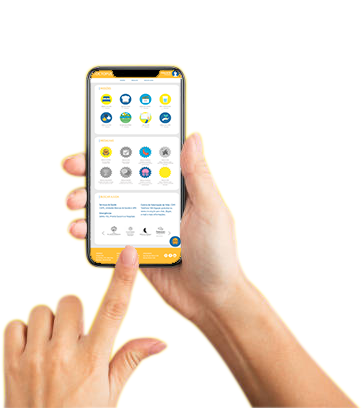
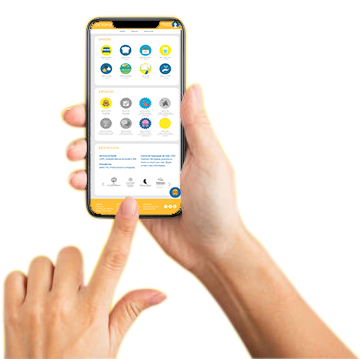
Criar pagina octopus/ e fazer pequenas alteracoes no index

diff --git a/app/templates/index.html b/app/templates/index.html
@@ -1,17 +1,6 @@
+{% extends 'layout.html' %}
 {% load staticfiles %}
-<!DOCTYPE html>
-<html lang="pt-br">
-<head>
-    <meta charset="UTF-8">
-    <meta name="viewport" content="width=device-width, initial-scale=1.0">
-    <meta http-equiv="X-UA-Compatible" content="ie=edge">
-    <link rel="shortcut icon" href="{% static 'icones/octopus.png' %}" type="image/x-icon">
-    <link rel="stylesheet" href="{% static 'css/style.css' %}">
-    <script defer src="{% static 'js/script.js' %}"></script>
-    <link href="https://fonts.googleapis.com/css?family=Ubuntu&display=swap" rel="stylesheet">
-    <title>Octopus</title>
-</head>
-<body>
+{% block content %}
     <header id="header">
         <div id="navPrincipal" >
             <nav>
@@ -24,7 +13,7 @@
                     <ul>
                         <li>
                             <div id="boxSize">
-                                <a id="oProjeto" href="#header">
+                                <a id="oProjeto" href="#">
                                     HOME
                                 </a>
                             </div>
@@ -39,7 +28,7 @@
                         <li>
                             <div id="boxSize">
                                 <a id="" href="#cadastro">
-                                    CADASTRO
+                                    ENTRAR
                                 </a>
                             </div>
                         </li>
@@ -71,7 +60,7 @@
             </div>
             <div id="como-funciona-projeto">
                 <div id="img-projeto">
-                    <img src="{% static 'imagens/mockup1.png' %}" alt="">
+                    <img src="{% static 'imagens/smartphone.png' %}" alt="">
                 </div>
                 <div id="txt-projeto">
                     <h2>Como funciona?</h2>
@@ -117,29 +106,4 @@
     <section id="pilares">
         
     </section>
-    <footer>
-        <div id="endereco">
-            <p>ENDEREÇO</p>
-            <p>Estação Hack</p>
-            <p>Av. Paulista, 1374 - Bela Vista,</p>
-            <p>São Paulo - SP, 01310-100</p>
-        </div>
-        <div id="contato">
-            <p>CONTATO</p>
-            <p>+55 11 95288-2296 | +55 11 95196-6416</p>
-            <p>+55 11 96661-5470 | +55 11 94508-5115</p>
-            <p>octopus@octopus.com.br</p>
-        </div>
-        <div id="atendimento">
-            <p>ATENDIMENTO</p>
-            <p>Seg à Sex das 9h às 21h</p>
-            <p>Sab das 9h às 13h</p>
-        </div>
-        <div id="sociais">
-            <a href=""><img src="{% static 'icones/instagram.png' %}" alt=""></a>
-            <a href=""><img src="{% static 'icones/face.png' %}" alt=""></a>
-            <a href=""><img src="{% static 'icones/linkedin.png' %}" alt=""></a>
-        </div>
-    </footer>
-</body>
-</html>
+{% endblock %}

diff --git a/app/templates/layout.html b/app/templates/layout.html
@@ -1,0 +1,43 @@
+{% load staticfiles %}
+<!DOCTYPE html>
+<html lang="pt-br">
+<head>
+    <meta charset="UTF-8">
+    <meta name="viewport" content="width=device-width, initial-scale=1.0">
+    <meta http-equiv="X-UA-Compatible" content="ie=edge">
+    <link rel="shortcut icon" href="{% static 'icones/octopus.png' %}" type="image/x-icon">
+    <link rel="stylesheet" href="{% static 'css/style.css' %}">
+    <link rel="stylesheet" href="{% static 'css/octopus.css' %}">
+    <script defer src="{% static 'js/script.js' %}"></script>
+    <link href="https://fonts.googleapis.com/css?family=Ubuntu&display=swap" rel="stylesheet">
+    <title>Octopus</title>
+</head>
+<body>
+{% block content %}
+{% endblock %}
+    <footer>
+        <div id="endereco">
+            <p>ENDEREÇO</p>
+            <p>Estação Hack</p>
+            <p>Av. Paulista, 1374 - Bela Vista,</p>
+            <p>São Paulo - SP, 01310-100</p>
+        </div>
+        <div id="contato">
+            <p>CONTATO</p>
+            <p>+55 11 95288-2296 | +55 11 95196-6416</p>
+            <p>+55 11 96661-5470 | +55 11 94508-5115</p>
+            <p>octopus@octopus.com.br</p>
+        </div>
+        <div id="atendimento">
+            <p>ATENDIMENTO</p>
+            <p>Seg à Sex das 9h às 21h</p>
+            <p>Sab das 9h às 13h</p>
+        </div>
+        <div id="sociais">
+            <a href=""><img src="{% static 'icones/instagram.png' %}" alt=""></a>
+            <a href=""><img src="{% static 'icones/face.png' %}" alt=""></a>
+            <a href=""><img src="{% static 'icones/linkedin.png' %}" alt=""></a>
+        </div>
+    </footer>
+</body>
+</html>

diff --git a/app/static/css/style.css b/app/static/css/style.css
@@ -83,7 +83,6 @@ header a:hover {
     background-color: rgb(255, 214, 34);
     display: flex;
     justify-content: center;
-    width: 35%;
 }
 #txt-projeto{
     text-align: initial;
@@ -186,6 +185,8 @@ footer{
 
 }
 #boxSize{
+    display: flex;
+    justify-content: center;
     width: 200px;
 }
 #navPrincipal{

diff --git a/app/templates/octopus.html b/app/templates/octopus.html
@@ -1,0 +1,5 @@
+{% extends 'layout.html' %}
+{% load staticfiles %}
+{% block content %}
+
+{% endblock %}

diff --git a/app/views.py b/app/views.py
@@ -4,3 +4,6 @@ from django.shortcuts import render
 
 def mostrar_index(request):
     return render(request, 'index.html')
+
+def mostrar_octopus(request):
+    return render(request, 'octopus.html')

diff --git a/octopus/urls.py b/octopus/urls.py
@@ -20,4 +20,5 @@ from app import views
 urlpatterns = [
     path('admin/', admin.site.urls),
     path('', views.mostrar_index),
+    path('octopus/', views.mostrar_octopus),
 ]
